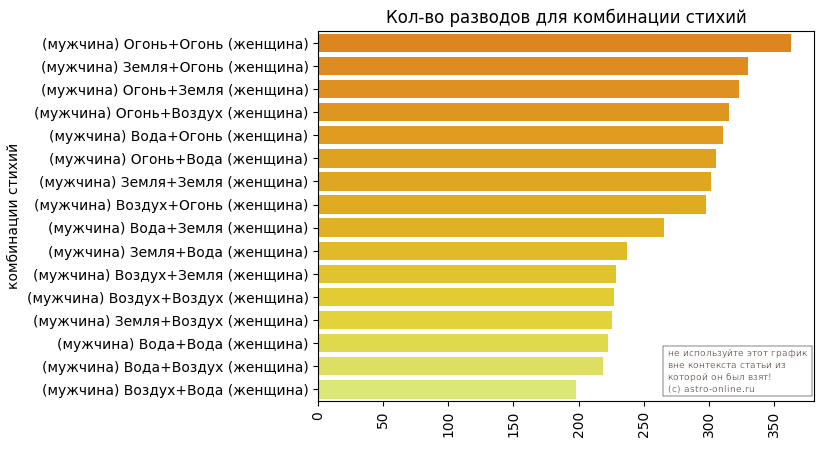
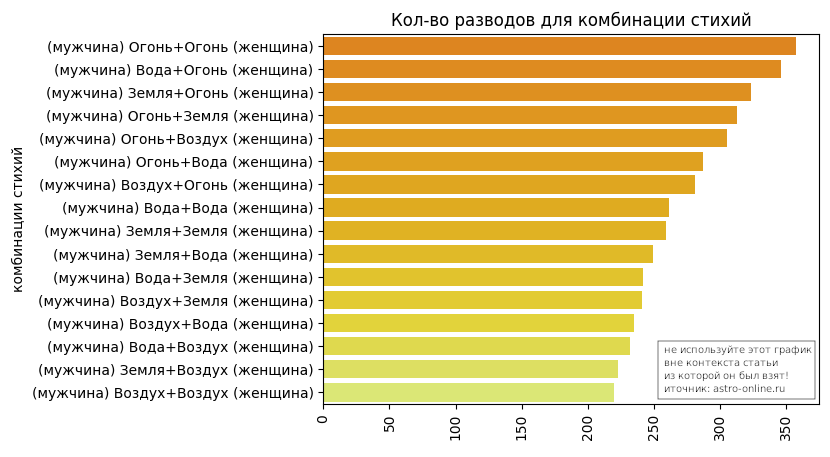
changes...

Changed region(s): [[0.0, 0.0, 1.0, 0.9644]]

diff --git a/marriages_and_divorces/marriages_and_divorces_research.html b/marriages_and_divorces/marriages_and_divorces_research.html
@@ -207,7 +207,7 @@
 </p>
 <p>
 Подсчет стихий будет осуществляться следующим методом:
-<br>Расчитываем в каких знаках зодиака находятся планеты для выбранной даты, затем для каждой планеты расчитываем стихию, например: Солнце в Козероге даст стихию Земли, Луна в Овне даст стихию Огня, Луна в Козероге даст еще большее усиление Земли, в итоге какая-то стихия станет доминирующей, она и будет учитываться. У нас получится супружеская пара, где вместо знаков зодиака уже будут фигурировать стихии.
+<br>Расчитываем в каких знаках зодиака находятся планеты для выбранной даты, затем для каждой планеты расчитываем стихию, например: Солнце в Козероге даст стихию Земли, Луна в Овне даст стихию Огня, если же Луна будет в Козероге, то это даст еще большее усиление стихии Земли, в итоге какая-то стихия станет доминирующей, она и будет учитываться. Для более яркой выраженности стихии будем использовать следующие коэффициенты: Солнце и Луна - 3 балла; Меркурий, Венера, Марс - 2 балла; Юпитер, Сатурн, Уран, Нептун и Плутон - 1 балл. У нас получится супружеская пара, где вместо знаков зодиака будут фигурировать стихии:
 </p>
 
 <table border=1 width=250 cellspacing=1 cellpadding=1>
@@ -216,22 +216,23 @@
     <td>Женщина</td>
     <td>Кол-во разводов</td>
 <tr>
-<tr><td>Огонь</td><td>Огонь</td><td>363
-</td></tr><tr><td>Земля</td><td>Огонь</td><td>330
-</td></tr><tr><td>Огонь</td><td>Земля</td><td>323
-</td></tr><tr><td>Огонь</td><td>Воздух</td><td>316
-</td></tr><tr><td>Вода</td><td>Огонь</td><td>311
-</td></tr><tr><td>Огонь</td><td>Вода</td><td>306
-</td></tr><tr><td>Земля</td><td>Земля</td><td>302
-</td></tr><tr><td>Воздух</td><td>Огонь</td><td>298
-</td></tr><tr><td>Вода</td><td>Земля</td><td>266
-</td></tr><tr><td>Земля</td><td>Вода</td><td>237
-</td></tr><tr><td>Воздух</td><td>Земля</td><td>229
-</td></tr><tr><td>Воздух</td><td>Воздух</td><td>227
-</td></tr><tr><td>Земля</td><td>Воздух</td><td>226
-</td></tr><tr><td>Вода</td><td>Вода</td><td>223
-</td></tr><tr><td>Вода</td><td>Воздух</td><td>219
-</td></tr><tr><td>Воздух</td><td>Вода</td><td>198</td></tr></table>
+<tr><td>Огонь</td><td>Огонь</td><td>357
+</td></tr><tr><td>Вода</td><td>Огонь</td><td>346
+</td></tr><tr><td>Земля</td><td>Огонь</td><td>323
+</td></tr><tr><td>Огонь</td><td>Земля</td><td>313
+</td></tr><tr><td>Огонь</td><td>Воздух</td><td>305
+</td></tr><tr><td>Огонь</td><td>Вода</td><td>287
+</td></tr><tr><td>Воздух</td><td>Огонь</td><td>281
+</td></tr><tr><td>Вода</td><td>Вода</td><td>261
+</td></tr><tr><td>Земля</td><td>Земля</td><td>259
+</td></tr><tr><td>Земля</td><td>Вода</td><td>249
+</td></tr><tr><td>Вода</td><td>Земля</td><td>242
+</td></tr><tr><td>Воздух</td><td>Земля</td><td>241
+</td></tr><tr><td>Воздух</td><td>Вода</td><td>235
+</td></tr><tr><td>Вода</td><td>Воздух</td><td>232
+</td></tr><tr><td>Земля</td><td>Воздух</td><td>223
+</td></tr><tr><td>Воздух</td><td>Воздух</td><td>220
+</td></tr></table>
 <br>
 
 <br>
@@ -239,10 +240,10 @@
 <br>
 <img src="img/element_combination_.png">
 <p>
-Можно заметить преобладание огненной стихии в верхней половине таблицы, это соответствует тому, что пара со стихией Огонь+Огонь подавала на развод в городе Xalapa-Enríquez штата Veracruz с 2000 по 2015 на 83% чаще, чем пара со стихией Воздух+Вода.
+Можно заметить преобладание огненной стихии в верхней половине таблицы, это соответствует тому, что пара со стихией Огонь+Огонь подавала на развод в городе Xalapa-Enríquez штата Veracruz с 2000 по 2015 на 62% чаще, чем пара со стихией Воздух+Воздух.
 </p>
 <p>
-Теперь взглянем на фазу Луны в момент заключения брака:
+Теперь взглянем на фазу Луны (номер четверти) в момент заключения брака:
 <br>
 <img src="img/moon_phases.png">
 </p>
@@ -250,7 +251,7 @@
 <b>Обратите внимание:</b>
 </p>
 <p>
-К сожалению, за неименеем альтернативных данных, нельзя сказать точно, что показывает данная выборка: темперамент Мексиканцев, особенности культуры/законодательства/особенности данного периода времени/географической локации или же астрологические данные совместимости знаков зодиака и стихий. Нужно так же учитывать, что, по разным оценкам, количество разводов среди жителей Мексики составляет не более 20%.
+К сожалению, за неименеем альтернативных данных нельзя сказать точно, что показывает данная выборка: темперамент Мексиканцев, особенности культуры/законодательства/особенности данного периода времени/географической локации или же астрологические данные совместимости знаков зодиака и стихий. Нужно так же учитывать, что по разным оценкам, количество разводов среди жителей Мексики составляет не более 20%.
 </p>
 <hr>
 Ссылки:
